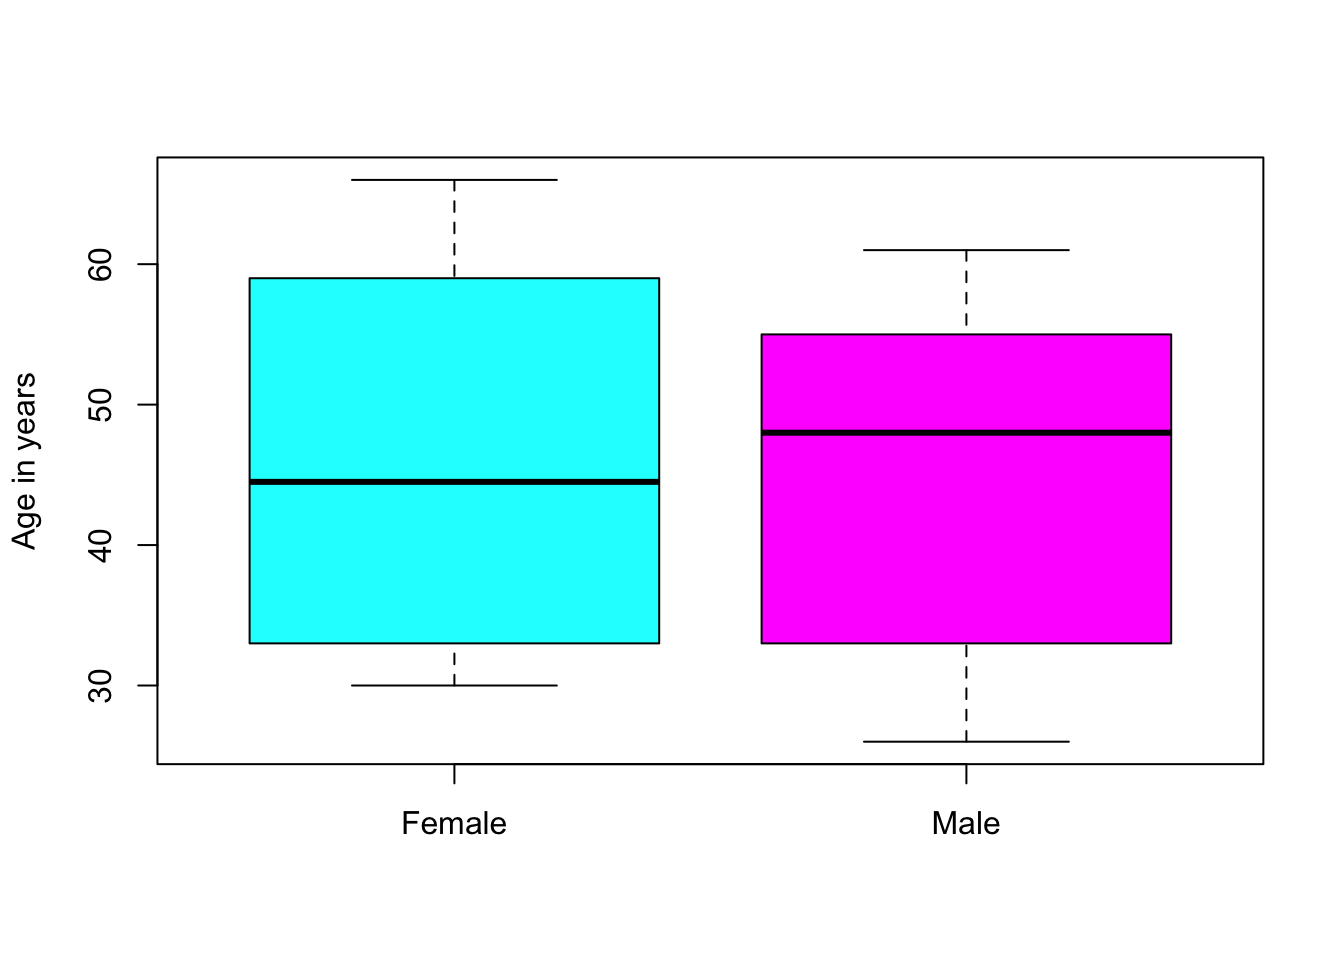
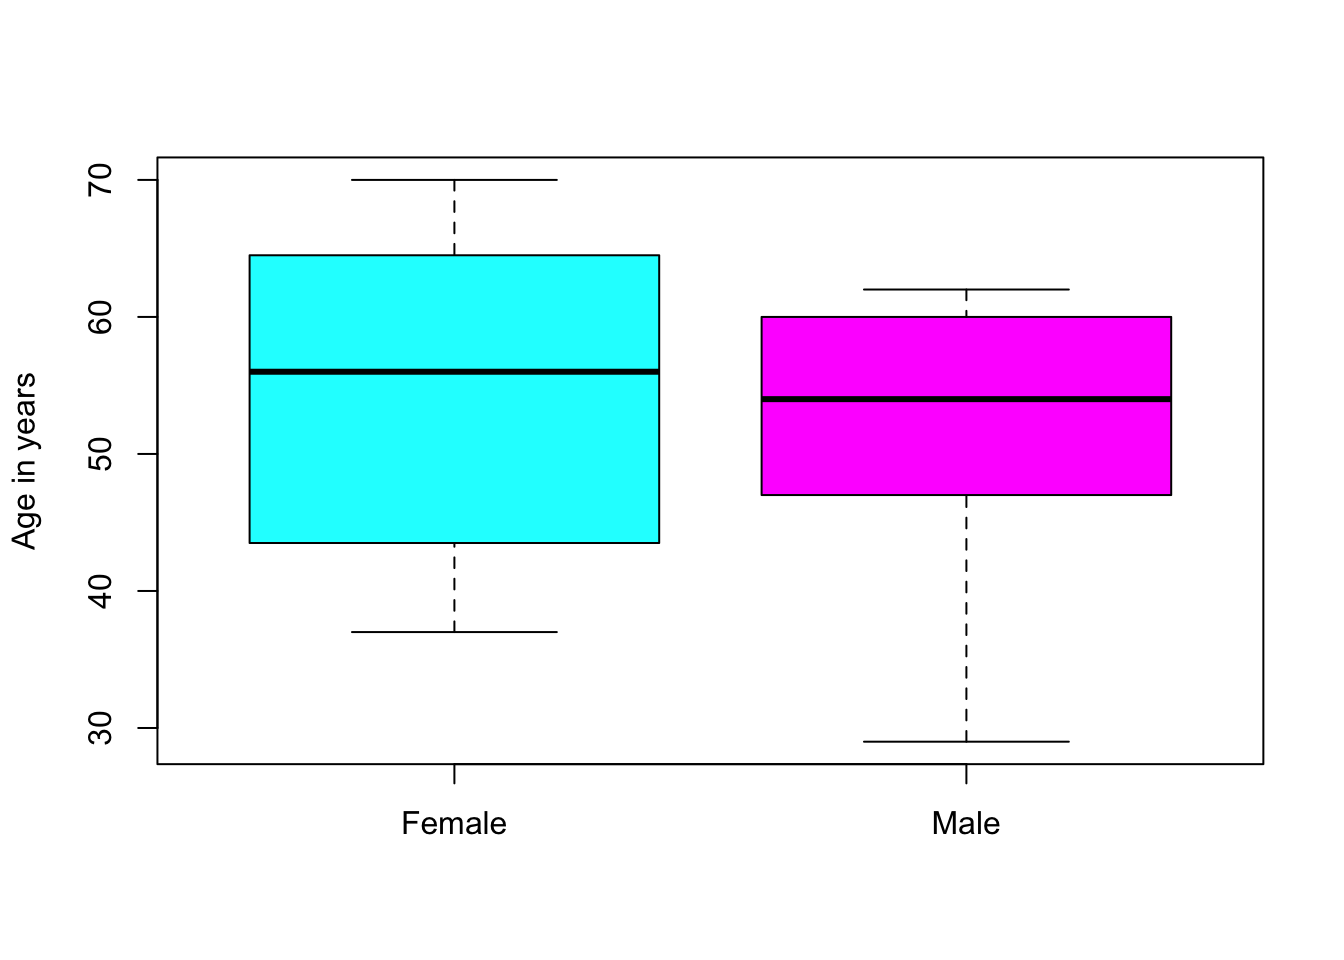
Fixing slug to not break old links

diff --git a/content/post/2020-10-29-hetu.en/index.html b/content/post/2020-10-29-hetu.en/index.html
@@ -2,7 +2,7 @@
 title: "Hetu-package for handling of Finnish personal identity codes"
 author: "Pyry Kantanen"
 date: 2020-10-29
-slug: "hetu-package"
+slug: "hetu-package-for-handling-of-finnish-personal-identity-codes"
 categories:
   - R-package
   - R
@@ -178,15 +178,15 @@ code span.wa { color: #8f5902; font-weight: bold; font-style: italic; } /* Warni
 <span id="cb18-2"><a href="#cb18-2" aria-hidden="true" tabindex="-1"></a><span class="co"># Age in years</span></span>
 <span id="cb18-3"><a href="#cb18-3" aria-hidden="true" tabindex="-1"></a><span class="fu">hetu_age</span>(example_pins2)</span></code></pre></div>
 <pre><code>## The age in years has been calculated at 2021-01-29.</code></pre>
-<pre><code>## [1] 30 59 32 35 60</code></pre>
+<pre><code>## [1] 31 31 43 49 47</code></pre>
 <div class="sourceCode" id="cb21"><pre class="sourceCode r"><code class="sourceCode r"><span id="cb21-1"><a href="#cb21-1" aria-hidden="true" tabindex="-1"></a><span class="co"># Age in months</span></span>
 <span id="cb21-2"><a href="#cb21-2" aria-hidden="true" tabindex="-1"></a><span class="fu">hetu_age</span>(example_pins2, <span class="at">timespan =</span> <span class="st">&quot;months&quot;</span>)</span></code></pre></div>
 <pre><code>## The age in months has been calculated at 2021-01-29.</code></pre>
-<pre><code>## [1] 362 710 384 420 730</code></pre>
+<pre><code>## [1] 377 382 520 593 566</code></pre>
 <div class="sourceCode" id="cb24"><pre class="sourceCode r"><code class="sourceCode r"><span id="cb24-1"><a href="#cb24-1" aria-hidden="true" tabindex="-1"></a><span class="co"># Age in 2011</span></span>
 <span id="cb24-2"><a href="#cb24-2" aria-hidden="true" tabindex="-1"></a><span class="fu">hetu_age</span>(example_pins2, <span class="at">date =</span> <span class="st">&quot;2011-01-01&quot;</span>)</span></code></pre></div>
 <pre><code>## The age in years has been calculated at 2011-01-01.</code></pre>
-<pre><code>## [1] 20 49 21 24 50</code></pre>
+<pre><code>## [1] 21 21 33 39 37</code></pre>
 <div class="sourceCode" id="cb27"><pre class="sourceCode r"><code class="sourceCode r"><span id="cb27-1"><a href="#cb27-1" aria-hidden="true" tabindex="-1"></a><span class="co"># Visualization: boxplot grouped by sex</span></span>
 <span id="cb27-2"><a href="#cb27-2" aria-hidden="true" tabindex="-1"></a>example_pins3 <span class="ot">&lt;-</span> <span class="fu">rhetu</span>(<span class="dv">20</span>, <span class="at">start =</span> <span class="st">&quot;1950-01-01&quot;</span>, <span class="at">end =</span> <span class="st">&quot;1995-05-07&quot;</span>, <span class="at">p.male =</span> <span class="fl">0.5</span>)</span>
 <span id="cb27-3"><a href="#cb27-3" aria-hidden="true" tabindex="-1"></a><span class="fu">boxplot</span>(<span class="fu">hetu_age</span>(example_pins3)<span class="sc">~</span><span class="fu">hetu_sex</span>(example_pins3), <span class="at">xlab =</span> <span class="st">&quot;&quot;</span>, <span class="at">ylab =</span> <span class="st">&quot;Age in years&quot;</span>, <span class="at">col=</span><span class="fu">c</span>(<span class="st">&quot;cyan&quot;</span>, <span class="st">&quot;magenta&quot;</span>))</span></code></pre></div>
@@ -213,7 +213,7 @@ code span.wa { color: #8f5902; font-weight: bold; font-style: italic; } /* Warni
 </ul>
 <div class="sourceCode" id="cb33"><pre class="sourceCode r"><code class="sourceCode r"><span id="cb33-1"><a href="#cb33-1" aria-hidden="true" tabindex="-1"></a>example_bids <span class="ot">&lt;-</span> <span class="fu">rbid</span>(<span class="dv">2</span>)</span>
 <span id="cb33-2"><a href="#cb33-2" aria-hidden="true" tabindex="-1"></a>example_bids</span></code></pre></div>
-<pre><code>## [1] &quot;3246420-5&quot; &quot;3246420-5&quot;</code></pre>
+<pre><code>## [1] &quot;2660711-8&quot; &quot;1481902-5&quot;</code></pre>
 <div class="sourceCode" id="cb35"><pre class="sourceCode r"><code class="sourceCode r"><span id="cb35-1"><a href="#cb35-1" aria-hidden="true" tabindex="-1"></a><span class="fu">bid_ctrl</span>(example_bids)</span></code></pre></div>
 <pre><code>## [1] TRUE TRUE</code></pre>
 <p>No additional information can be extracted from BIDs.</p>
